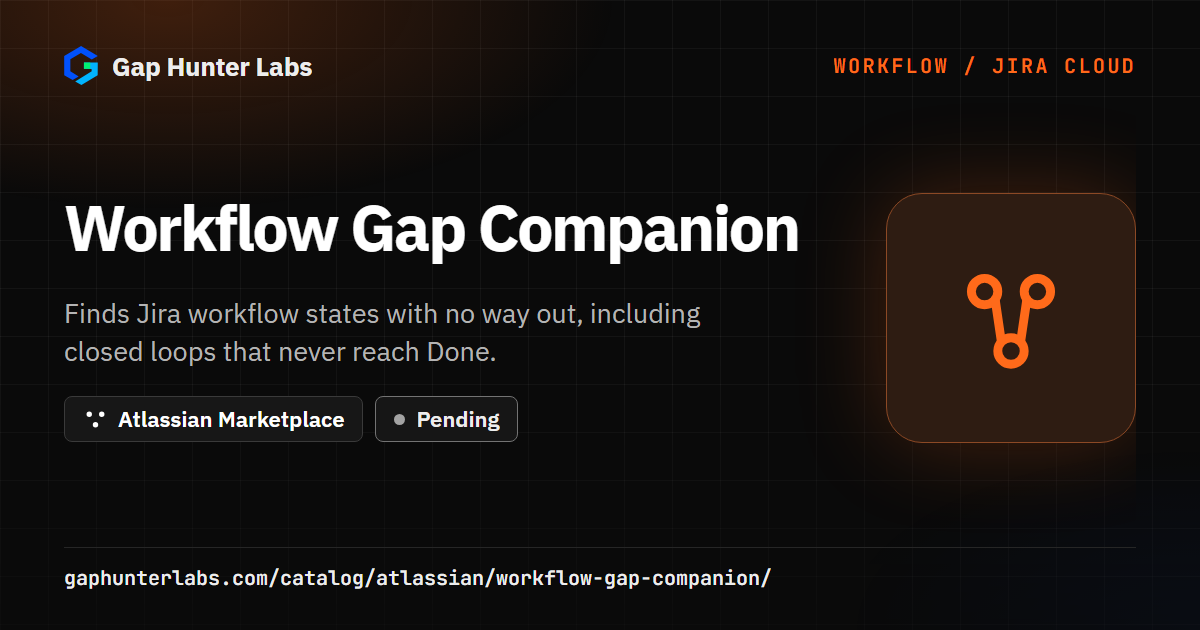
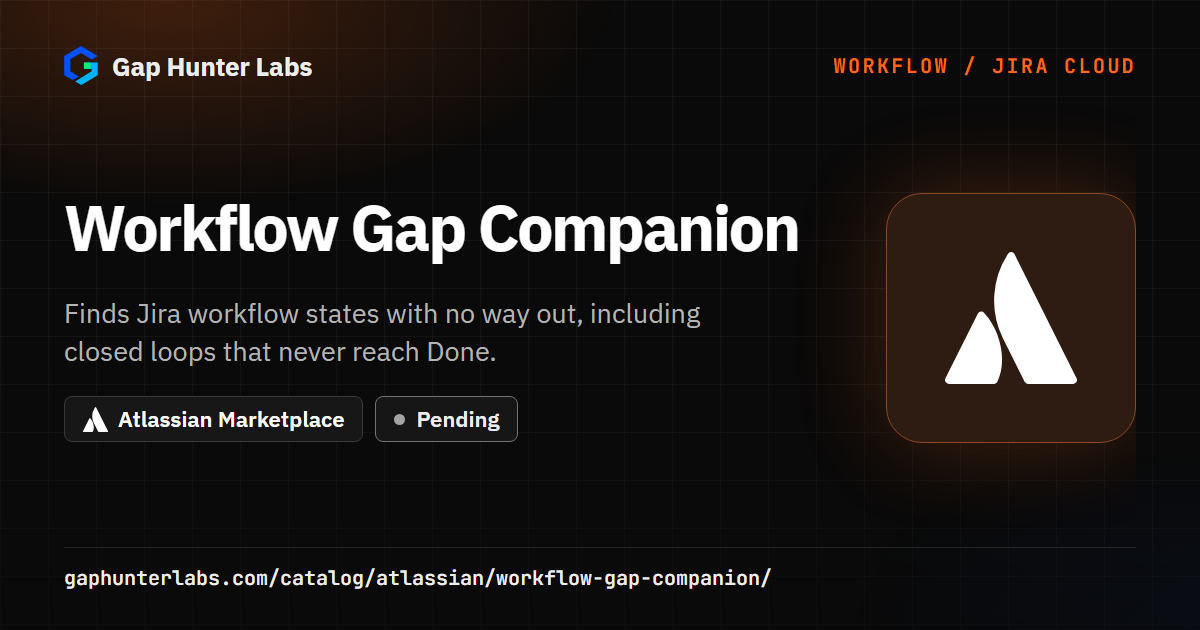
Use the real Atlassian logomark for the Atlassian platform tab, cards and social image
Replaces the generic 3-node mark with the Atlassian logomark (simple-icons, CC0) in the catalog tab, the Atlassian cards, the badge icon and the social image. The selected tab uses Atlassian blue through a theme token (#0052CC on light, #2684FF on dark, where #0052CC is only 2.5:1). The social image uses the white variant for the dark background. The tab check now also clicks the Atlassian tab and asserts its icon color and panel.

Changed region(s): [[0.7708, 0.3921, 0.8942, 0.6333], [0.0617, 0.6333, 0.0925, 0.6937]]

diff --git a/catalog/index.html b/catalog/index.html
@@ -187,8 +187,8 @@
 <!-- Full catalog ItemList. Regenerated with each catalog data refresh
      so crawlers that do not execute JavaScript still see every plugin. -->
 <script type="application/ld+json" id="catalog-jsonld">{"@context":"https://schema.org","@type":"CollectionPage","name":"Gap Hunter Labs Plugin Catalog","url":"https://gaphunterlabs.com/catalog/","description":"A catalog of IntelliJ/JetBrains-family IDE plugins, each built from a documented, evidence-based gap in an existing tool.","inLanguage":"en","isPartOf":{"@id":"https://gaphunterlabs.com/#org"},"mainEntity":{"@type":"ItemList","numberOfItems":147,"itemListOrder":"https://schema.org/ItemListUnordered","itemListElement":[{"@type":"ListItem","position":1,"url":"https://gaphunterlabs.com/catalog/mermaid-companion/","name":"Mermaid Companion"},{"@type":"ListItem","position":2,"url":"https://gaphunterlabs.com/catalog/react-native-companion/","name":"React Native Companion"},{"@type":"ListItem","position":3,"url":"https://gaphunterlabs.com/catalog/ansible-companion/","name":"Ansible Companion"},{"@type":"ListItem","position":4,"url":"https://gaphunterlabs.com/catalog/api-security-companion/","name":"API Security Companion"},{"@type":"ListItem","position":5,"url":"https://gaphunterlabs.com/catalog/openapi-companion/","name":"OpenAPI Companion"},{"@type":"ListItem","position":6,"url":"https://gaphunterlabs.com/catalog/gitlab-ci-companion/","name":"GitLab CI Companion"},{"@type":"ListItem","position":7,"url":"https://gaphunterlabs.com/catalog/jwt-companion/","name":"JWT Companion"},{"@type":"ListItem","position":8,"url":"https://gaphunterlabs.com/catalog/firestore-companion/","name":"Firestore Companion"},{"@type":"ListItem","position":9,"url":"https://gaphunterlabs.com/catalog/dependency-vulnerability-companion/","name":"Dependency Vulnerability Companion"},{"@type":"ListItem","position":10,"url":"https://gaphunterlabs.com/catalog/refactor-simulator/","name":"Refactor Simulator"},{"@type":"ListItem","position":11,"url":"https://gaphunterlabs.com/catalog/cert-companion/","name":"Cert Companion"},{"@type":"ListItem","position":12,"url":"https://gaphunterlabs.com/catalog/xsd-companion/","name":"XSD Companion"},{"@type":"ListItem","position":13,"url":"https://gaphunterlabs.com/catalog/sql-concatenation-companion/","name":"SQL String Concatenation Companion"},{"@type":"ListItem","position":14,"url":"https://gaphunterlabs.com/catalog/import-cost-companion/","name":"Import Cost Companion"},{"@type":"ListItem","position":15,"url":"https://gaphunterlabs.com/catalog/php-composer-script-companion/","name":"PHP Composer Script Companion"},{"@type":"ListItem","position":16,"url":"https://gaphunterlabs.com/catalog/asyncapi-companion/","name":"AsyncAPI Companion"},{"@type":"ListItem","position":17,"url":"https://gaphunterlabs.com/catalog/highlight-companion/","name":"Highlight Companion"},{"@type":"ListItem","position":18,"url":"https://gaphunterlabs.com/catalog/unused-npm-script-companion/","name":"Unused npm Script Companion"},{"@type":"ListItem","position":19,"url":"https://gaphunterlabs.com/catalog/jenkinsfile-companion/","name":"Jenkinsfile Companion"},{"@type":"ListItem","position":20,"url":"https://gaphunterlabs.com/catalog/json-schema-companion/","name":"JSON Schema Companion"},{"@type":"ListItem","position":21,"url":"https://gaphunterlabs.com/catalog/prometheus-metric-naming-companion/","name":"Prometheus Metric Naming Companion"},{"@type":"ListItem","position":22,"url":"https://gaphunterlabs.com/catalog/cors-policy-companion/","name":"CORS Policy Companion"},{"@type":"ListItem","position":23,"url":"https://gaphunterlabs.com/catalog/error-lens-companion/","name":"Error Lens Companion"},{"@type":"ListItem","position":24,"url":"https://gaphunterlabs.com/catalog/dockerfile-layer-size-companion/","name":"Dockerfile Layer Size Companion"},{"@type":"ListItem","position":25,"url":"https://gaphunterlabs.com/catalog/k6-companion/","name":"k6 Companion"},{"@type":"ListItem","position":26,"url":"https://gaphunterlabs.com/catalog/format-converter-companion/","name":"Format Converter Companion"},{"@type":"ListItem","position":27,"url":"https://gaphunterlabs.com/catalog/cmake-companion/","name":"CMake Companion"},{"@type":"ListItem","position":28,"url":"https://gaphunterlabs.com/catalog/spreadsheet-companion/","name":"Spreadsheet Companion"},{"@type":"ListItem","position":29,"url":"https://gaphunterlabs.com/catalog/aws-sdk-client-reuse-companion/","name":"AWS SDK Client Reuse Companion"},{"@type":"ListItem","position":30,"url":"https://gaphunterlabs.com/catalog/feature-flag-reference-companion/","name":"Feature Flag Reference Companion"},{"@type":"ListItem","position":31,"url":"https://gaphunterlabs.com/catalog/terraform-iam-privesc-companion/","name":"Terraform IAM Privesc Companion"},{"@type":"ListItem","position":32,"url":"https://gaphunterlabs.com/catalog/semver-bump-mismatch-companion/","name":"Semver Bump Mismatch Companion"},{"@type":"ListItem","position":33,"url":"https://gaphunterlabs.com/catalog/merge-conflict-leftover-companion/","name":"Merge Conflict Leftover Companion"},{"@type":"ListItem","position":34,"url":"https://gaphunterlabs.com/catalog/aws-s3-public-acl-sdk-companion/","name":"AWS S3 Public ACL via SDK Companion"},{"@type":"ListItem","position":35,"url":"https://gaphunterlabs.com/catalog/env-var-missing-companion/","name":"Env Var Missing Companion"},{"@type":"ListItem","position":36,"url":"https://gaphunterlabs.com/catalog/dockerfile-unused-stage-companion/","name":"Dockerfile Unused Stage Companion"},{"@type":"ListItem","position":37,"url":"https://gaphunterlabs.com/catalog/graphql-companion/","name":"GraphQL Companion"},{"@type":"ListItem","position":38,"url":"https://gaphunterlabs.com/catalog/n-plus-one-query-companion/","name":"N+1 Query Companion"},{"@type":"ListItem","position":39,"url":"https://gaphunterlabs.com/catalog/test-scaffold-companion/","name":"Test Scaffold Companion"},{"@type":"ListItem","position":40,"url":"https://gaphunterlabs.com/catalog/webhook-signature-companion/","name":"Webhook Signature Companion"},{"@type":"ListItem","position":41,"url":"https://gaphunterlabs.com/catalog/nginx-companion/","name":"Nginx Companion"},{"@type":"ListItem","position":42,"url":"https://gaphunterlabs.com/catalog/git-hygiene-companion/","name":"Git Hygiene Companion"},{"@type":"ListItem","position":43,"url":"https://gaphunterlabs.com/catalog/log-format-string-companion/","name":"Log Format String Companion"},{"@type":"ListItem","position":44,"url":"https://gaphunterlabs.com/catalog/kafka-topic-schema-companion/","name":"Kafka Topic Schema Companion"},{"@type":"ListItem","position":45,"url":"https://gaphunterlabs.com/catalog/background-readaction-freeze-companion/","name":"Background ReadAction Freeze Companion"},{"@type":"ListItem","position":46,"url":"https://gaphunterlabs.com/catalog/kafka-topic-feedback-loop-companion/","name":"Kafka Topic Feedback-Loop Companion"},{"@type":"ListItem","position":47,"url":"https://gaphunterlabs.com/catalog/review-companion/","name":"Review Companion"},{"@type":"ListItem","position":48,"url":"https://gaphunterlabs.com/catalog/terraform-iam-wildcard-companion/","name":"Terraform IAM Wildcard Companion"},{"@type":"ListItem","position":49,"url":"https://gaphunterlabs.com/catalog/idempotency-key-companion/","name":"Idempotency Key Companion"},{"@type":"ListItem","position":50,"url":"https://gaphunterlabs.com/catalog/regex-preview-companion/","name":"Regex Preview Companion"},{"@type":"ListItem","position":51,"url":"https://gaphunterlabs.com/catalog/config-secrets-file-companion/","name":"Config Secrets File Companion"},{"@type":"ListItem","position":52,"url":"https://gaphunterlabs.com/catalog/github-actions-pwn-request-companion/","name":"GitHub Actions Pwn-Request Companion"},{"@type":"ListItem","position":53,"url":"https://gaphunterlabs.com/catalog/kafka-producer-reuse-companion/","name":"Kafka Producer Reuse Companion"},{"@type":"ListItem","position":54,"url":"https://gaphunterlabs.com/catalog/go-timer-leak-companion/","name":"Go Timer Leak Companion"},{"@type":"ListItem","position":55,"url":"https://gaphunterlabs.com/catalog/apache-httpclient-reuse-companion/","name":"Apache HttpClient Reuse Companion"},{"@type":"ListItem","position":56,"url":"https://gaphunterlabs.com/catalog/circular-dependency-companion/","name":"Circular Dependency Companion"},{"@type":"ListItem","position":57,"url":"https://gaphunterlabs.com/catalog/postman-openapi-drift-companion/","name":"Postman OpenAPI Drift Companion"},{"@type":"ListItem","position":58,"url":"https://gaphunterlabs.com/catalog/dockerfile-missing-user-companion/","name":"Dockerfile Missing USER Instruction Companion"},{"@type":"ListItem","position":59,"url":"https://gaphunterlabs.com/catalog/cassandra-cqlsession-reuse-companion/","name":"Cassandra CqlSession Reuse Companion"},{"@type":"ListItem","position":60,"url":"https://gaphunterlabs.com/catalog/change-case-companion/","name":"Change Case Companion"},{"@type":"ListItem","position":61,"url":"https://gaphunterlabs.com/catalog/env-diff-companion/","name":"Env Diff Companion"},{"@type":"ListItem","position":62,"url":"https://gaphunterlabs.com/catalog/completablefuture-cancellation-companion/","name":"CompletableFuture Cancellation Propagation Companion"},{"@type":"ListItem","position":63,"url":"https://gaphunterlabs.com/catalog/gradle-task-graph-companion/","name":"Gradle Task Graph Companion"},{"@type":"ListItem","position":64,"url":"https://gaphunterlabs.com/catalog/k8s-resource-limit-companion/","name":"K8s Resource Limit Companion"},{"@type":"ListItem","position":65,"url":"https://gaphunterlabs.com/catalog/ruby-gemfile-group-companion/","name":"Ruby Gemfile Group Companion"},{"@type":"ListItem","position":66,"url":"https://gaphunterlabs.com/catalog/theme-companion/","name":"Theme Companion"},{"@type":"ListItem","position":67,"url":"https://gaphunterlabs.com/catalog/redis-lock-missing-ttl-companion/","name":"Redis/Redisson Distributed Lock Missing TTL Companion"},{"@type":"ListItem","position":68,"url":"https://gaphunterlabs.com/catalog/k8s-label-selector-exposure-companion/","name":"K8s Label-Selector Exposure Companion"},{"@type":"ListItem","position":69,"url":"https://gaphunterlabs.com/catalog/npm-peer-dependency-companion/","name":"NPM Peer Dependency Companion"},{"@type":"ListItem","position":70,"url":"https://gaphunterlabs.com/catalog/k8s-readiness-liveness-probe-companion/","name":"Kubernetes Missing Readiness/Liveness Probe Companion"},{"@type":"ListItem","position":71,"url":"https://gaphunterlabs.com/catalog/redisson-client-reuse-companion/","name":"Redisson Client Reuse Companion"},{"@type":"ListItem","position":72,"url":"https://gaphunterlabs.com/catalog/json-to-code-companion/","name":"JSON to Code Companion"},{"@type":"ListItem","position":73,"url":"https://gaphunterlabs.com/catalog/kafka-premature-offset-commit-companion/","name":"Kafka Premature Offset Commit Companion"},{"@type":"ListItem","position":74,"url":"https://gaphunterlabs.com/catalog/redos-catastrophic-backtracking-companion/","name":"ReDoS Catastrophic-Backtracking Companion"},{"@type":"ListItem","position":75,"url":"https://gaphunterlabs.com/catalog/jwt-webhook-timing-safe-companion/","name":"JWT Webhook Signature Timing-Safe Comparison Companion"},{"@type":"ListItem","position":76,"url":"https://gaphunterlabs.com/catalog/bean-copy-companion/","name":"Bean Copy Companion"},{"@type":"ListItem","position":77,"url":"https://gaphunterlabs.com/catalog/gcp-client-reuse-companion/","name":"GCP Client Reuse Companion"},{"@type":"ListItem","position":78,"url":"https://gaphunterlabs.com/catalog/api-deprecation-header-companion/","name":"API Deprecation Header Companion"},{"@type":"ListItem","position":79,"url":"https://gaphunterlabs.com/catalog/correlation-id-propagation-companion/","name":"Correlation ID Propagation Companion"},{"@type":"ListItem","position":80,"url":"https://gaphunterlabs.com/catalog/async-self-invocation-companion/","name":"Async Self-Invocation Companion"},{"@type":"ListItem","position":81,"url":"https://gaphunterlabs.com/catalog/flaky-test-marker-companion/","name":"Flaky Test Marker Companion"},{"@type":"ListItem","position":82,"url":"https://gaphunterlabs.com/catalog/feign-fallback-config-companion/","name":"Feign Fallback Config Companion"},{"@type":"ListItem","position":83,"url":"https://gaphunterlabs.com/catalog/grpc-error-status-companion/","name":"gRPC Error Status Companion"},{"@type":"ListItem","position":84,"url":"https://gaphunterlabs.com/catalog/php-sql-injection-companion/","name":"PHP SQL Injection Companion"},{"@type":"ListItem","position":85,"url":"https://gaphunterlabs.com/catalog/changelog-fragment-companion/","name":"Changelog Fragment Companion"},{"@type":"ListItem","position":86,"url":"https://gaphunterlabs.com/catalog/binding-result-position-companion/","name":"Binding Result Position Companion"},{"@type":"ListItem","position":87,"url":"https://gaphunterlabs.com/catalog/cache-invalidation-companion/","name":"Cache-Invalidation Companion"},{"@type":"ListItem","position":88,"url":"https://gaphunterlabs.com/catalog/json-path-builder-companion/","name":"JSON Path Builder Companion"},{"@type":"ListItem","position":89,"url":"https://gaphunterlabs.com/catalog/regex-named-group-companion/","name":"Regex Named Group Companion"},{"@type":"ListItem","position":90,"url":"https://gaphunterlabs.com/catalog/environment-specific-constant-companion/","name":"Environment-Specific Constant Companion"},{"@type":"ListItem","position":91,"url":"https://gaphunterlabs.com/catalog/jdbc-double-close-companion/","name":"JDBC Double-Close Companion"},{"@type":"ListItem","position":92,"url":"https://gaphunterlabs.com/catalog/php-open-redirect-companion/","name":"PHP Open Redirect Companion"},{"@type":"ListItem","position":93,"url":"https://gaphunterlabs.com/catalog/php-shell-injection-companion/","name":"PHP Shell Injection Companion"},{"@type":"ListItem","position":94,"url":"https://gaphunterlabs.com/catalog/rails-mass-assignment-companion/","name":"Rails Mass Assignment Companion"},{"@type":"ListItem","position":95,"url":"https://gaphunterlabs.com/catalog/ruby-shell-injection-companion/","name":"Ruby Shell Injection Companion"},{"@type":"ListItem","position":96,"url":"https://gaphunterlabs.com/catalog/connection-pool-config-companion/","name":"Connection Pool Config Companion"},{"@type":"ListItem","position":97,"url":"https://gaphunterlabs.com/catalog/elasticsearch-client-reuse-companion/","name":"Elasticsearch Client Reuse Companion"},{"@type":"ListItem","position":98,"url":"https://gaphunterlabs.com/catalog/interface-exception-divergence-companion/","name":"Interface Exception Divergence Companion"},{"@type":"ListItem","position":99,"url":"https://gaphunterlabs.com/catalog/php-file-inclusion-companion/","name":"PHP File Inclusion Companion"},{"@type":"ListItem","position":100,"url":"https://gaphunterlabs.com/catalog/grpc-streamobserver-contract-companion/","name":"gRPC StreamObserver Contract Companion"},{"@type":"ListItem","position":101,"url":"https://gaphunterlabs.com/catalog/micrometer-timer-sample-companion/","name":"Micrometer Timer Sample Companion"},{"@type":"ListItem","position":102,"url":"https://gaphunterlabs.com/catalog/deadlock-lock-order-companion/","name":"Deadlock Lock-Order Companion"},{"@type":"ListItem","position":103,"url":"https://gaphunterlabs.com/catalog/grpc-missing-deadline-companion/","name":"gRPC Missing Deadline Companion"},{"@type":"ListItem","position":104,"url":"https://gaphunterlabs.com/catalog/kubernetes-rbac-wildcard-companion/","name":"Kubernetes RBAC Wildcard Companion"},{"@type":"ListItem","position":105,"url":"https://gaphunterlabs.com/catalog/php-function-injection-companion/","name":"PHP Function Injection Companion"},{"@type":"ListItem","position":106,"url":"https://gaphunterlabs.com/catalog/okhttp-client-reuse-companion/","name":"OkHttp Client Reuse Companion"},{"@type":"ListItem","position":107,"url":"https://gaphunterlabs.com/catalog/rabbitmq-channel-reuse-companion/","name":"RabbitMQ Channel Reuse Companion"},{"@type":"ListItem","position":108,"url":"https://gaphunterlabs.com/catalog/ruby-nethttp-reuse-companion/","name":"Ruby Net::HTTP Reuse Companion"},{"@type":"ListItem","position":109,"url":"https://gaphunterlabs.com/catalog/exception-escape-chain-companion/","name":"Exception-Escape Chain Companion"},{"@type":"ListItem","position":110,"url":"https://gaphunterlabs.com/catalog/integer-overflow-widening-companion/","name":"Integer-Overflow-on-Widening Companion"},{"@type":"ListItem","position":111,"url":"https://gaphunterlabs.com/catalog/interface-resource-close-divergence-companion/","name":"Interface Resource-Close Divergence Companion"},{"@type":"ListItem","position":112,"url":"https://gaphunterlabs.com/catalog/rxjava-disposable-leak-companion/","name":"RxJava Disposable Leak Companion"},{"@type":"ListItem","position":113,"url":"https://gaphunterlabs.com/catalog/otel-span-naming-companion/","name":"OTel Span Naming Companion"},{"@type":"ListItem","position":114,"url":"https://gaphunterlabs.com/catalog/enum-ordinal-persistence-companion/","name":"Enum-Ordinal Persistence Companion"},{"@type":"ListItem","position":115,"url":"https://gaphunterlabs.com/catalog/interface-sink-divergence-companion/","name":"Interface Sink Divergence Companion"},{"@type":"ListItem","position":116,"url":"https://gaphunterlabs.com/catalog/ktor-httpclient-reuse-companion/","name":"Ktor HttpClient Reuse Companion"},{"@type":"ListItem","position":117,"url":"https://gaphunterlabs.com/catalog/mongo-client-reuse-companion/","name":"MongoDB Client Reuse Companion"},{"@type":"ListItem","position":118,"url":"https://gaphunterlabs.com/catalog/ssrf-unsanitized-url-companion/","name":"SSRF via Unsanitized URL Companion"},{"@type":"ListItem","position":119,"url":"https://gaphunterlabs.com/catalog/object-mapper-reuse-companion/","name":"Object Mapper Reuse Companion"},{"@type":"ListItem","position":120,"url":"https://gaphunterlabs.com/catalog/jwt-signature-verification-companion/","name":"JWT Signature Verification Companion"},{"@type":"ListItem","position":121,"url":"https://gaphunterlabs.com/catalog/mutable-state-leak-companion/","name":"Mutable State Leak Companion"},{"@type":"ListItem","position":122,"url":"https://gaphunterlabs.com/catalog/unsafe-deserialization-sink-companion/","name":"Unsafe Deserialization Sink Companion"},{"@type":"ListItem","position":123,"url":"https://gaphunterlabs.com/catalog/xpath-injection-sink-companion/","name":"XPath Injection Sink Companion"},{"@type":"ListItem","position":124,"url":"https://gaphunterlabs.com/catalog/material-companion/","name":"Material Companion"},{"@type":"ListItem","position":125,"url":"https://gaphunterlabs.com/catalog/lucene-query-injection-companion/","name":"Lucene Query Injection Companion"},{"@type":"ListItem","position":126,"url":"https://gaphunterlabs.com/catalog/rate-limiter-fallback-companion/","name":"Rate Limiter Fallback Companion"},{"@type":"ListItem","position":127,"url":"https://gaphunterlabs.com/catalog/turbo-log-companion/","name":"Turbo Log Companion"},{"@type":"ListItem","position":128,"url":"https://gaphunterlabs.com/catalog/log-injection-companion/","name":"Log Injection Companion"},{"@type":"ListItem","position":129,"url":"https://gaphunterlabs.com/catalog/prometheus-metric-registration-companion/","name":"Prometheus Metric Registration Companion"},{"@type":"ListItem","position":130,"url":"https://gaphunterlabs.com/catalog/module-boundary-leak-companion/","name":"Module Boundary Leak Companion"},{"@type":"ListItem","position":131,"url":"https://gaphunterlabs.com/catalog/retry-backoff-jitter-companion/","name":"Retry Without Backoff+Jitter Companion"},{"@type":"ListItem","position":132,"url":"https://gaphunterlabs.com/catalog/thread-confinement-escape-companion/","name":"Thread-Confinement Escape Companion"},{"@type":"ListItem","position":133,"url":"https://gaphunterlabs.com/catalog/resilience-self-invocation-companion/","name":"Resilience Self-Invocation Companion"},{"@type":"ListItem","position":134,"url":"https://gaphunterlabs.com/catalog/trycatch-consistency-companion/","name":"Try/Catch Consistency Companion"},{"@type":"ListItem","position":135,"url":"https://gaphunterlabs.com/catalog/pii-tostring-leak-companion/","name":"PII via toString() Leak Companion"},{"@type":"ListItem","position":136,"url":"https://gaphunterlabs.com/catalog/interprocedural-resource-leak-companion/","name":"Interprocedural Resource Leak Companion"},{"@type":"ListItem","position":137,"url":"https://gaphunterlabs.com/catalog/micronaut-httpclient-create-companion/","name":"Micronaut HttpClient Create Companion"},{"@type":"ListItem","position":138,"url":"https://gaphunterlabs.com/catalog/mismatched-lock-object-companion/","name":"Mismatched Lock Object Companion"},{"@type":"ListItem","position":139,"url":"https://gaphunterlabs.com/catalog/second-order-sqli-field-companion/","name":"Second-Order SQLi Field Companion"},{"@type":"ListItem","position":140,"url":"https://gaphunterlabs.com/catalog/ssrf-allowlist-bypass-companion/","name":"SSRF Allow-List Bypass Companion"},{"@type":"ListItem","position":141,"url":"https://gaphunterlabs.com/catalog/session-attribute-type-confusion-companion/","name":"Session Attribute Type Confusion Companion"},{"@type":"ListItem","position":142,"url":"https://gaphunterlabs.com/catalog/ldap-injection-sink-companion/","name":"LDAP Injection Sink Companion"},{"@type":"ListItem","position":143,"url":"https://gaphunterlabs.com/catalog/pii-field-annotation-companion/","name":"PII Field Annotation Companion"},{"@type":"ListItem","position":144,"url":"https://gaphunterlabs.com/catalog/spel-injection-sink-companion/","name":"SpEL Injection Sink Companion"},{"@type":"ListItem","position":145,"url":"https://gaphunterlabs.com/catalog/commit-message-convention-companion/","name":"Commit Message Convention Companion"},{"@type":"ListItem","position":146,"url":"https://gaphunterlabs.com/catalog/http-status-inline-companion/","name":"HTTP Status Code Inline Companion"},{"@type":"ListItem","position":147,"url":"https://gaphunterlabs.com/catalog/disposed-project-callback-companion/","name":"Disposed Project Callback Companion"}]},"dateModified":"2026-11-22"}</script>
-<link rel="stylesheet" href="/css/theme.css?v=11abce56">
-<link rel="stylesheet" href="/css/catalog.css?v=2cad90f0">
+<link rel="stylesheet" href="/css/theme.css?v=0cd27175">
+<link rel="stylesheet" href="/css/catalog.css?v=401ebd1d">
 <link rel="stylesheet" href="/css/shell.css?v=f4773a8a">
 <link rel="stylesheet" href="/css/tw.css?v=fec34290">
 </head>
@@ -238,7 +238,7 @@
   <div class="platform-tabs" role="tablist" aria-label="Platform">
     <a class="platform-tab" role="tab" id="tab-jetbrains" href="#jetbrains" aria-controls="jetbrains" aria-selected="true" data-platform="jetbrains"><svg viewBox="0 0 24 24" fill="currentColor" aria-hidden="true"><path d="M2.345 23.997A2.347 2.347 0 0 1 0 21.652V10.988C0 9.665.535 8.37 1.473 7.433l5.965-5.961A5.01 5.01 0 0 1 10.989 0h10.666A2.347 2.347 0 0 1 24 2.345v10.664a5.056 5.056 0 0 1-1.473 3.554l-5.965 5.965A5.017 5.017 0 0 1 13.007 24v-.003H2.345Zm8.969-6.854H5.486v1.371h5.828v-1.371ZM3.963 6.514h13.523v13.519l4.257-4.257a3.936 3.936 0 0 0 1.146-2.767V2.345c0-.678-.552-1.234-1.234-1.234H10.989a3.897 3.897 0 0 0-2.767 1.145L3.963 6.514Zm-.192.192L2.256 8.22a3.944 3.944 0 0 0-1.145 2.768v10.664c0 .678.552 1.234 1.234 1.234h10.666a3.9 3.9 0 0 0 2.767-1.146l1.512-1.511H3.771V6.706Z"/></svg><span>JetBrains IDEs</span><span class="pt-count"><!-- PRERENDER:TABJB:START -->147<!-- PRERENDER:TABJB:END --></span></a>
     <a class="platform-tab" role="tab" id="tab-vscode" href="#vsxSection" aria-controls="vsxSection" aria-selected="false" data-platform="vscode"><svg viewBox="0 0 24 24" fill="currentColor" aria-hidden="true"><path d="M23.15 2.587L18.21.21a1.494 1.494 0 0 0-1.705.29l-9.46 8.63-4.12-3.128a.999.999 0 0 0-1.276.057L.327 7.261A1 1 0 0 0 .326 8.74L3.899 12 .326 15.26a1 1 0 0 0 .001 1.479L1.65 17.94a.999.999 0 0 0 1.276.057l4.12-3.128 9.46 8.63a1.492 1.492 0 0 0 1.704.29l4.942-2.377A1.5 1.5 0 0 0 24 20.06V3.939a1.5 1.5 0 0 0-.85-1.352zm-5.146 14.861L10.826 12l7.178-5.448v10.896z"/></svg><span>VS Code</span><span class="pt-count"><!-- PRERENDER:TABVSX:START -->33<!-- PRERENDER:TABVSX:END --></span></a>
-    <a class="platform-tab" role="tab" id="tab-atlassian" href="#atlassianSection" aria-controls="atlassianSection" aria-selected="false" data-platform="atlassian"><svg viewBox="0 0 20 20" fill="none" stroke="currentColor" stroke-width="1.4" stroke-linecap="round" stroke-linejoin="round" aria-hidden="true"><circle cx="6" cy="6" r="2"/><circle cx="14" cy="6" r="2"/><circle cx="10" cy="15" r="2"/><path d="M7.6 7.2 8.5 13.3M12.4 7.2 11.5 13.3"/></svg><span>Atlassian</span><span class="pt-count"><!-- PRERENDER:TABATL:START -->1<!-- PRERENDER:TABATL:END --></span></a>
+    <a class="platform-tab" role="tab" id="tab-atlassian" href="#atlassianSection" aria-controls="atlassianSection" aria-selected="false" data-platform="atlassian"><svg viewBox="0 0 24 24" fill="currentColor" aria-hidden="true"><path d="M7.12 11.084a.683.683 0 00-1.16.126L.075 22.974a.703.703 0 00.63 1.018h8.19a.678.678 0 00.63-.39c1.767-3.65.696-9.203-2.406-12.52zM11.434.386a15.515 15.515 0 00-.906 15.317l3.95 7.9a.703.703 0 00.628.388h8.19a.703.703 0 00.63-1.017L12.63.38a.664.664 0 00-1.196.006z"/></svg><span>Atlassian</span><span class="pt-count"><!-- PRERENDER:TABATL:START -->1<!-- PRERENDER:TABATL:END --></span></a>
   </div>
 
   <section class="platform-panel" id="jetbrains" role="tabpanel" aria-labelledby="tab-jetbrains">
@@ -388,7 +388,7 @@
       <a class="btn" href="https://github.com/GapHunterLabs" target="_blank" rel="noopener" data-goatcounter-click="out-vendor-atlassian">GitHub &#8599;</a>
     </div>
     <div class="controls atl-controls"><div class="search" role="search"><input type="search" id="atlassianSearch" placeholder="Search Atlassian Marketplace apps&hellip;" aria-label="Search Atlassian Marketplace apps" autocomplete="off"></div></div>
-    <div class="plugin-grid atl-grid" id="atlassianGrid"><!-- PRERENDER:ATLGRID:START --><a class="vsx-card atl-card" href="/catalog/atlassian/workflow-gap-companion/"><div class="card-header"><span class="card-cat atl-mark" aria-hidden="true"><svg viewBox="0 0 20 20" fill="none" stroke="currentColor" stroke-width="1.4" stroke-linecap="round" stroke-linejoin="round"><circle cx="6" cy="6" r="2"/><circle cx="14" cy="6" r="2"/><circle cx="10" cy="15" r="2"/><path d="M7.6 7.2 8.5 13.3M12.4 7.2 11.5 13.3"/></svg></span><span class="price-badge price-pending">Pending</span></div><div class="card-top"><div class="card-name">Workflow Gap Companion</div><div class="card-niche">Workflow / Jira Cloud</div></div><p class="card-pitch">Finds Jira workflow states with no way out, including closed loops that never reach Done.</p><div class="card-metrics"><span class="card-dl-wrap">Pending moderation</span><span class="card-go">Details</span></div></a><!-- PRERENDER:ATLGRID:END --></div>
+    <div class="plugin-grid atl-grid" id="atlassianGrid"><!-- PRERENDER:ATLGRID:START --><a class="vsx-card atl-card" href="/catalog/atlassian/workflow-gap-companion/"><div class="card-header"><span class="card-cat atl-mark" aria-hidden="true"><svg viewBox="0 0 24 24" fill="currentColor"><path d="M7.12 11.084a.683.683 0 00-1.16.126L.075 22.974a.703.703 0 00.63 1.018h8.19a.678.678 0 00.63-.39c1.767-3.65.696-9.203-2.406-12.52zM11.434.386a15.515 15.515 0 00-.906 15.317l3.95 7.9a.703.703 0 00.628.388h8.19a.703.703 0 00.63-1.017L12.63.38a.664.664 0 00-1.196.006z"/></svg></span><span class="price-badge price-pending">Pending</span></div><div class="card-top"><div class="card-name">Workflow Gap Companion</div><div class="card-niche">Workflow / Jira Cloud</div></div><p class="card-pitch">Finds Jira workflow states with no way out, including closed loops that never reach Done.</p><div class="card-metrics"><span class="card-dl-wrap">Pending moderation</span><span class="card-go">Details</span></div></a><!-- PRERENDER:ATLGRID:END --></div>
     <div class="no-results" id="atlassianNoResults" hidden aria-live="polite"></div>
     <div id="atlassianPager"></div>
   </section>
@@ -449,7 +449,7 @@
 <script src="/js/atlassian-catalog.js?v=57dde91a"></script>
 <script src="/js/catalog-scroll.js?v=816236fc" defer></script>
 <script src="/js/catalog-vsx.js?v=ea3675a1" defer></script>
-<script src="/js/catalog-atlassian.js?v=a8032818" defer></script>
+<script src="/js/catalog-atlassian.js?v=f0ba6757" defer></script>
 <script src="/js/catalog.js?v=d5834a52" defer></script>
 <script src="/js/catalog-tabs.js?v=7188236e" defer></script>
 <!-- Fase 3 del SuperPlan de SEO (2026-09-23): prefetch (no prerender) de

diff --git a/js/catalog-shared.js b/js/catalog-shared.js
@@ -99,9 +99,9 @@
     // Code" dossier button matches those exactly instead of a
     // different approximation.
     vscode: '<svg viewBox="0 0 24 24" fill="currentColor"><path d="M23.15 2.587L18.21.21a1.494 1.494 0 0 0-1.705.29l-9.46 8.63-4.12-3.128a.999.999 0 0 0-1.276.057L.327 7.261A1 1 0 0 0 .326 8.74L3.899 12 .326 15.26a1 1 0 0 0 .001 1.479L1.65 17.94a.999.999 0 0 0 1.276.057l4.12-3.128 9.46 8.63a1.492 1.492 0 0 0 1.704.29l4.942-2.377A1.5 1.5 0 0 0 24 20.06V3.939a1.5 1.5 0 0 0-.85-1.352zm-5.146 14.861L10.826 12l7.178-5.448v10.896z"/></svg>',
-    // Generic workflow-graph mark (3 nodes), not an Atlassian/Jira logo --
-    // trademark policy requires an original icon for this third platform.
-    atlassian: '<svg viewBox="0 0 20 20" fill="none" stroke="currentColor" stroke-width="1.4" stroke-linecap="round" stroke-linejoin="round"><circle cx="6" cy="6" r="2"/><circle cx="14" cy="6" r="2"/><circle cx="10" cy="15" r="2"/><path d="M7.6 7.2 8.5 13.3M12.4 7.2 11.5 13.3"/></svg>',
+    // Atlassian logomark (simple-icons, CC0, same path as pipeline/icons.json). Shown only to say the app is
+    // available for Atlassian products; unmodified shape, single color via currentColor.
+    atlassian: '<svg viewBox="0 0 24 24" fill="currentColor"><path d="M7.12 11.084a.683.683 0 00-1.16.126L.075 22.974a.703.703 0 00.63 1.018h8.19a.678.678 0 00.63-.39c1.767-3.65.696-9.203-2.406-12.52zM11.434.386a15.515 15.515 0 00-.906 15.317l3.95 7.9a.703.703 0 00.628.388h8.19a.703.703 0 00.63-1.017L12.63.38a.664.664 0 00-1.196.006z"/></svg>',
     // Movido aca 2026-09-22 (Fase 2 de SEO): antes vivia como una var local
     // dentro del script del dossier de catalog/index.html (unico
     // consumidor). Ese dossier ya no existe en esa pagina -- solo lo usan

diff --git a/css/catalog.css b/css/catalog.css
@@ -1461,6 +1461,8 @@
   border-radius: var(--radius); color: var(--cat, var(--accent)); background: color-mix(in srgb, var(--cat, var(--accent)) 12%, var(--surface)); }
 .catalog-v2 .card-cat svg { width: 20px; height: 20px; }
 .catalog-v2 .vsx-mark, .catalog-v2 .atl-mark { --cat: var(--text-dim); }
+/* The Atlassian logomark is a solid shape: undo the stroke-only icon rule of .card-cat svg. */
+.card-cat.atl-mark svg { fill: currentColor; stroke: none; }
 .catalog-v2 .card-top { display: flex; flex-direction: column; gap: 2px; min-width: 0; }
 .catalog-v2 .card-name { color: var(--text); font: 600 16px / 1.3 var(--sans); letter-spacing: 0; text-transform: none; }
 .catalog-v2 .card-niche { color: var(--text-faint); font: 500 13px var(--sans); letter-spacing: 0; text-transform: none; }
@@ -1544,6 +1546,9 @@
 .catalog-v2 .platform-tab[aria-selected="true"] svg { color: var(--signal); }
 /* Brand logos keep their own color: VS Code is blue when selected, never the site accent. */
 .catalog-v2 .platform-tab[data-platform="vscode"][aria-selected="true"] svg { color: #007ACC; }
+/* Atlassian blue (--brand-atlassian in theme.css): #0052CC on the light tab (5.8:1); on dark that blue is only 2.5:1
+   against #1C1C1C, under the 3:1 minimum for a non-text icon, so dark themes get the lighter #2684FF (4.7:1). */
+.catalog-v2 .platform-tab[data-platform="atlassian"][aria-selected="true"] svg { color: var(--brand-atlassian); }
 .catalog-v2 .pt-count { padding: 1px 7px; font: 600 11.5px var(--mono); }
 .catalog-v2 .platform-tab[aria-selected="true"] .pt-count { background: var(--surface); color: var(--text); }
 .catalog-v2 .platform-panel { padding-top: 28px; }

diff --git a/_review/site-behavior.test.js b/_review/site-behavior.test.js
@@ -197,6 +197,13 @@ test('catalog: platform tabs switch panels and keep the VS Code blue', async ({ 
   equal(await color('vscode'), 'rgb(0, 122, 204)', 'VS Code icon color');
   equal(await b.evaluate("document.getElementById('vsxSection').hidden"), false, 'VS Code panel shown');
   equal(await b.evaluate("document.getElementById('jetbrains').hidden"), true, 'JetBrains panel hidden');
+  await b.evaluate("document.querySelector('.platform-tab[data-platform=atlassian]').click()");
+  await delay(300);
+  equal(await b.evaluate("document.querySelector('.platform-tab[data-platform=atlassian]').getAttribute('aria-selected')"), 'true', 'Atlassian tab selected');
+  // #0052CC on light, #2684FF on dark (the brand blue is under 3:1 on the dark tab).
+  assert(['rgb(0, 82, 204)', 'rgb(38, 132, 255)'].includes(await color('atlassian')), 'Atlassian icon color: ' + await color('atlassian'));
+  equal(await b.evaluate("document.getElementById('atlassianSection').hidden"), false, 'Atlassian panel shown');
+  equal(await b.evaluate("document.getElementById('vsxSection').hidden"), true, 'VS Code panel hidden');
 });
 
 test('catalog and home keep working when /data/*.json is unreachable', async ({ b, base }) => {

diff --git a/js/catalog-atlassian.js b/js/catalog-atlassian.js
@@ -10,7 +10,7 @@
       return { '&': '&amp;', '<': '&lt;', '>': '&gt;', '"': '&quot;', "'": '&#39;' }[c];
     });
   }
-  var ATL_ICON = '<svg viewBox="0 0 20 20" fill="none" stroke="currentColor" stroke-width="1.4" stroke-linecap="round" stroke-linejoin="round" aria-hidden="true"><circle cx="6" cy="6" r="2"/><circle cx="14" cy="6" r="2"/><circle cx="10" cy="15" r="2"/><path d="M7.6 7.2 8.5 13.3M12.4 7.2 11.5 13.3"/></svg>';
+  var ATL_ICON = '<svg viewBox="0 0 24 24" fill="currentColor" aria-hidden="true"><path d="M7.12 11.084a.683.683 0 00-1.16.126L.075 22.974a.703.703 0 00.63 1.018h8.19a.678.678 0 00.63-.39c1.767-3.65.696-9.203-2.406-12.52zM11.434.386a15.515 15.515 0 00-.906 15.317l3.95 7.9a.703.703 0 00.628.388h8.19a.703.703 0 00.63-1.017L12.63.38a.664.664 0 00-1.196.006z"/></svg>';
   var PAGE_SIZE = 12;
   var page = 1;
   var query = '';

diff --git a/css/theme.css b/css/theme.css
@@ -47,6 +47,7 @@
     --radius-lg: 10px;
 
     --bg: #FAFAFA;
+    --brand-atlassian: #0052CC;
     --surface: #FFFFFF;
     --surface-2: #F5F5F5;
     --surface-3: #EDEDED;
@@ -91,6 +92,7 @@
   :root:not([data-theme="light"]) {
       color-scheme: dark;
       --bg: #0A0A0A;
+      --brand-atlassian: #2684FF;
       --surface: #111111;
       --surface-2: #161616;
       --surface-3: #1C1C1C;
@@ -126,6 +128,7 @@
 :root[data-theme="dark"] {
     color-scheme: dark;
     --bg: #0A0A0A;
+    --brand-atlassian: #2684FF;
     --surface: #111111;
     --surface-2: #161616;
     --surface-3: #1C1C1C;

diff --git a/_review/verify_site.py b/_review/verify_site.py
@@ -285,6 +285,15 @@ def _tabs(env: Env):
             expect("platform=vscode" in p.url, "the URL should record the platform: " + p.url)
             expect(p.locator("#vsxGrid > *:not([hidden])").count() > 0, "no VS Code cards are visible")
             env.shot(p, "catalog-vscode-" + theme)
+            # Atlassian: brand blue when selected, lighter blue on dark so the icon keeps 3:1 against the tab (see css/catalog.css).
+            p.locator(".platform-tab[data-platform=atlassian]").click()
+            p.wait_for_timeout(300)
+            eq(p.locator(".platform-tab[data-platform=atlassian]").get_attribute("aria-selected"), "true", "Atlassian tab selected")
+            eq(color("atlassian"), "rgb(38, 132, 255)" if theme == "dark" else "rgb(0, 82, 204)", "Atlassian icon color when selected (%s)" % theme)
+            expect(p.locator("#atlassianSection").is_visible() and not p.locator("#vsxSection").is_visible(), "the Atlassian panel should replace the VS Code one")
+            expect("platform=atlassian" in p.url, "the URL should record the platform: " + p.url)
+            eq(p.locator(".platform-tab[data-platform=atlassian] svg path").count(), 1, "the Atlassian tab icon is a single logomark path")
+            env.shot(p, "catalog-atlassian-" + theme)
 
 
 @check("catalog", "opening ?platform=vscode shows the VS Code panel")

diff --git a/pipeline/build_og_images.py b/pipeline/build_og_images.py
@@ -55,9 +55,8 @@ CSS = """
 
 ACCENT = "#FF6A1A"  # the site's signal orange: the category colors in the catalog are neutral grays, too dim for a thumbnail
 VSCODE_MARK = '<svg class="solid" viewBox="0 0 24 24" aria-hidden="true"><path d="M16.5 3 21 5.2v13.6L16.5 21 7 12.9 3.6 15.6 2 14.8V9.2l1.6-.8L7 11.1 16.5 3Zm0 4.2-5 4.8 5 4.8V7.2Z"/></svg>'
-# Generic workflow-graph mark (3 nodes), not an Atlassian/Jira logo -- see js/catalog-shared.js's "atlassian" entry.
-ATLASSIAN_MARK = ('<svg viewBox="0 0 20 20" aria-hidden="true"><circle cx="6" cy="6" r="2"/><circle cx="14" cy="6" r="2"/>'
-                   '<circle cx="10" cy="15" r="2"/><path d="M7.6 7.2 8.5 13.3M12.4 7.2 11.5 13.3"/></svg>')
+# Atlassian logomark (simple-icons, CC0): same path as pipeline/icons.json, unmodified, in the white (inverse) variant for dark backgrounds.
+ATLASSIAN_MARK = ('<svg viewBox="0 0 24 24" style="fill:#fff;stroke:none" aria-hidden="true"><path d="M7.12 11.084a.683.683 0 00-1.16.126L.075 22.974a.703.703 0 00.63 1.018h8.19a.678.678 0 00.63-.39c1.767-3.65.696-9.203-2.406-12.52zM11.434.386a15.515 15.515 0 00-.906 15.317l3.95 7.9a.703.703 0 00.628.388h8.19a.703.703 0 00.63-1.017L12.63.38a.664.664 0 00-1.196.006z"/></svg>')
 
 
 def name_size(name: str) -> int:

diff --git a/pipeline/build_icons.py b/pipeline/build_icons.py
@@ -28,6 +28,7 @@ ICONS = {
     "gradle": "gradle", "openjdk": "java", "python": "python", "github": "github",
     "githubactions": "github-actions", "git": "git", "markdown": "markdown",
     "junit5": "junit", "cloudflare": "cloudflare", "gitlab": "gitlab", "go": "go", "linkedin": "linkedin",
+    "atlassian": "atlassian",
 }
 
 # Genericos (no son marcas): 24x24, trazo relleno.
